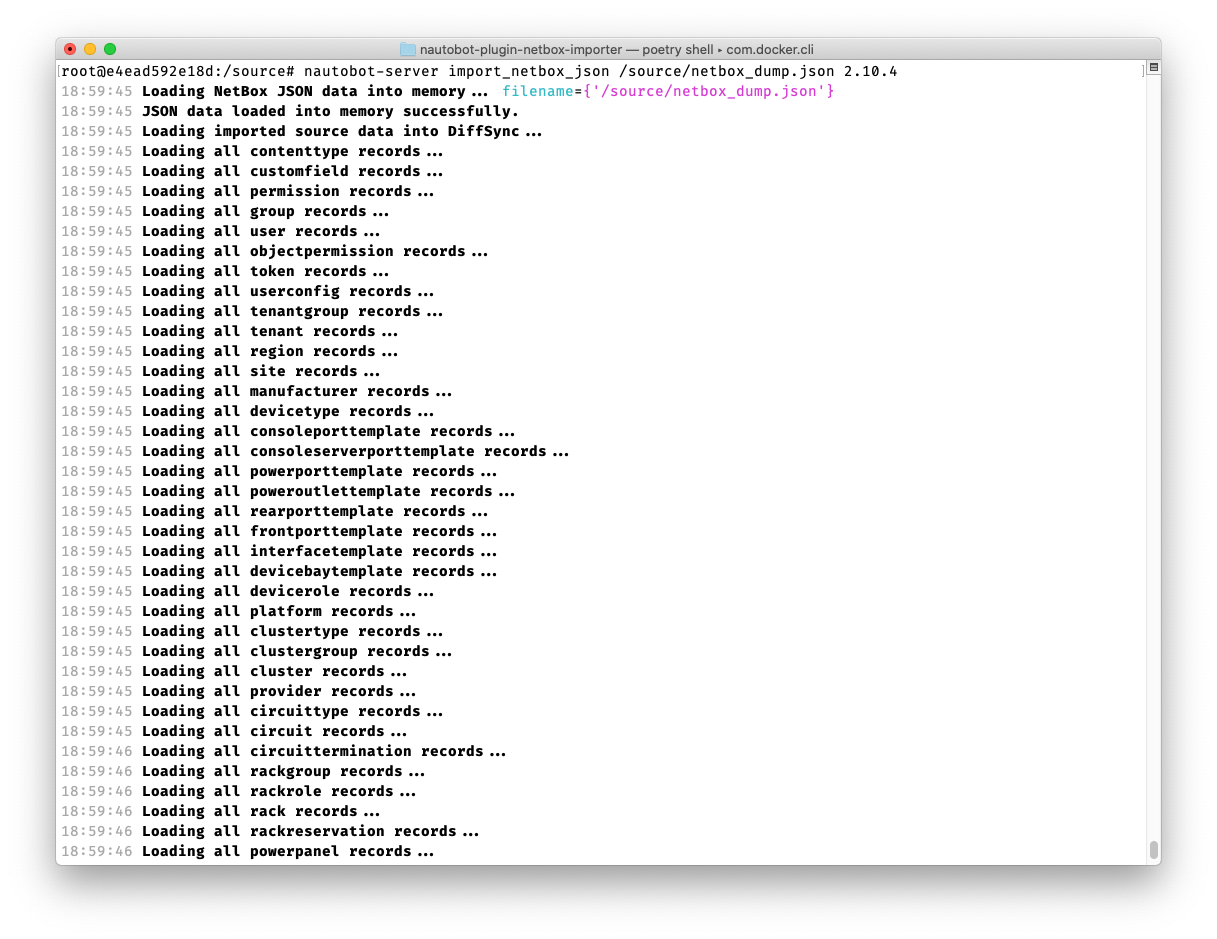
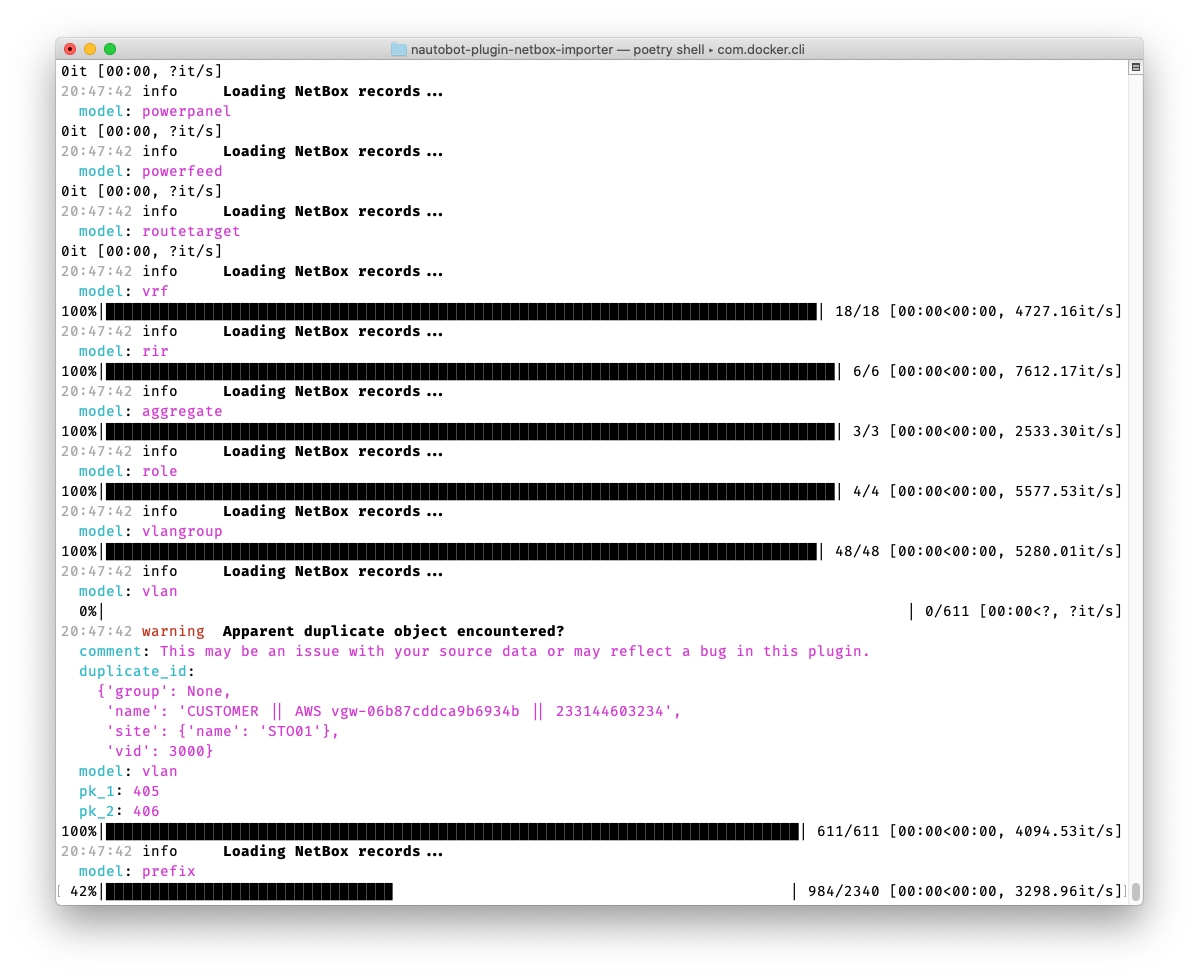
Rework logging to use a custom renderer. Fixes #22

diff --git a/nautobot_netbox_importer/management/commands/import_netbox_json.py b/nautobot_netbox_importer/management/commands/import_netbox_json.py
@@ -1,8 +1,11 @@
 """Definition of "manage.py import_netbox_json" Django command for use with Nautobot."""
 import argparse
+from io import StringIO
 import json
-import logging
+import pprint
+import textwrap
 
+import colorama
 from diffsync import DiffSyncFlags
 from packaging import version
 import structlog
@@ -10,6 +13,57 @@ import structlog
 from django.core.management.base import BaseCommand, CommandError
 
 from nautobot_netbox_importer.diffsync.adapters import netbox_adapters, NautobotDiffSync
+
+
+class LogRenderer:
+    """Class for rendering structured logs to the console in a human-readable format.
+
+    Example:
+        19:48:19 Apparent duplicate object encountered?
+          duplicate_id:
+            {'group': None,
+            'name': 'CR02.CHI_ORDMGMT',
+            'site': {'name': 'CHI01'},
+            'vid': 1000}
+          model: vlan
+          pk_1: 3baf142d-dd90-4379-a048-3bbbcc9c799c
+          pk_2: cba19791-4d59-4ddd-a5c9-d969ec3ed2ba
+    """
+
+    def __call__(
+        self,
+        logger: structlog.types.WrappedLogger,
+        name: str,
+        event_dict: structlog.types.EventDict,
+    ) -> str:
+        """Render the given event_dict to a string."""
+        sio = StringIO()
+
+        ts = event_dict.pop("timestamp", None)
+        if ts is not None:
+            sio.write(f"{colorama.Style.DIM}{ts}{colorama.Style.RESET_ALL} ")
+
+        level = event_dict.pop("level", None)
+        if level is not None:
+            if level in ("warning", "error", "critical"):
+                sio.write(f"{colorama.Fore.RED}{level:<9}{colorama.Style.RESET_ALL}")
+            else:
+                sio.write(f"{level:<9}")
+
+        event = event_dict.pop("event", None)
+        sio.write(f"{colorama.Style.BRIGHT}{event}{colorama.Style.RESET_ALL}")
+
+        for key, value in event_dict.items():
+            if isinstance(value, dict):
+                # We could use json.dumps() here instead of pprint.pformat,
+                # but I find pprint to be a bit more compact while still readable.
+                value = "\n" + textwrap.indent(pprint.pformat(value), "    ")
+            sio.write(
+                f"\n  {colorama.Fore.CYAN}{key}{colorama.Style.RESET_ALL}: "
+                f"{colorama.Fore.MAGENTA}{value}{colorama.Style.RESET_ALL}"
+            )
+
+        return sio.getvalue()
 
 
 class Command(BaseCommand):
@@ -25,40 +79,22 @@ class Command(BaseCommand):
     @staticmethod
     def enable_logging(verbosity=0):
         """Set up structlog (as used by DiffSync) to log messages for this command."""
+        colorama.init()
         structlog.configure(
             processors=[
-                structlog.stdlib.PositionalArgumentsFormatter(),
+                structlog.stdlib.add_log_level,
                 structlog.processors.TimeStamper(fmt="%H:%M:%S"),
-                structlog.processors.StackInfoRenderer(),
-                structlog.processors.format_exc_info,
-                structlog.stdlib.ProcessorFormatter.wrap_for_formatter,
+                LogRenderer(),
             ],
             context_class=dict,
-            logger_factory=structlog.stdlib.LoggerFactory(),
-            wrapper_class=structlog.stdlib.BoundLogger,
+            # Logging levels aren't very granular, so we adjust the log level based on *half* the verbosity level:
+            # Verbosity     Logging level
+            # 0             30 (WARNING)
+            # 1-2           20 (INFO)
+            # 3+            10 (DEBUG)
+            wrapper_class=structlog.make_filtering_bound_logger(10 * (3 - ((verbosity + 1) // 2))),
             cache_logger_on_first_use=True,
         )
-        formatter = structlog.stdlib.ProcessorFormatter(processor=structlog.dev.ConsoleRenderer())
-        handler = logging.StreamHandler()
-        handler.setFormatter(formatter)
-        root_logger = logging.getLogger()
-        diffsync_logger = logging.getLogger("diffsync")
-        root_logger.addHandler(handler)
-        if verbosity == 0:
-            root_logger.setLevel(logging.WARNING)
-            diffsync_logger.setLevel(logging.WARNING)
-        elif verbosity == 1:  # usual default value
-            root_logger.setLevel(logging.INFO)
-            diffsync_logger.setLevel(logging.WARNING)
-        elif verbosity == 2:
-            root_logger.setLevel(logging.INFO)
-            diffsync_logger.setLevel(logging.INFO)
-        elif verbosity == 3:
-            root_logger.setLevel(logging.DEBUG)
-            diffsync_logger.setLevel(logging.INFO)
-        else:
-            root_logger.setLevel(logging.DEBUG)
-            diffsync_logger.setLevel(logging.DEBUG)
 
     def handle(self, *args, **options):
         """Handle execution of the import_netbox_json management command."""
@@ -87,6 +123,11 @@ class Command(BaseCommand):
 
         target = NautobotDiffSync()
         target.load()
+
+        # Lower the verbosity of newly created structlog loggers by one (half-) step
+        # This is so that DiffSync's internal logging defaults to slightly less verbose than
+        # our own (plugin) logging.
+        self.enable_logging(verbosity=(options["verbosity"] - 1))
 
         logger.info("Beginning data synchronization...")
         # Due to the fact that model inter-references do not form an acyclic graph,

diff --git a/nautobot_netbox_importer/diffsync/adapters/abstract.py b/nautobot_netbox_importer/diffsync/adapters/abstract.py
@@ -265,8 +265,8 @@ class N2NDiffSync(DiffSync):
             instance = diffsync_model(**data, diffsync=self)
         except ValidationError as exc:
             self.logger.error(
-                "Invalid data according to internal data model. "
-                "This may be an issue with your source data or may reflect a bug in this plugin.",
+                "Invalid data according to internal data model",
+                comment="This may be an issue with your source data or may reflect a bug in this plugin.",
                 action="load",
                 exception=str(exc),
                 model=diffsync_model.get_type(),
@@ -278,8 +278,8 @@ class N2NDiffSync(DiffSync):
         except ObjectAlreadyExists:
             existing_instance = self.get(diffsync_model, instance.get_unique_id())
             self.logger.warning(
-                "Apparent duplicate object encountered? "
-                "This may be an issue with your source data or may reflect a bug in this plugin.",
+                "Apparent duplicate object encountered?",
+                comment="This may be an issue with your source data or may reflect a bug in this plugin.",
                 duplicate_id=instance.get_identifiers(),
                 model=diffsync_model.get_type(),
                 pk_1=existing_instance.pk,
